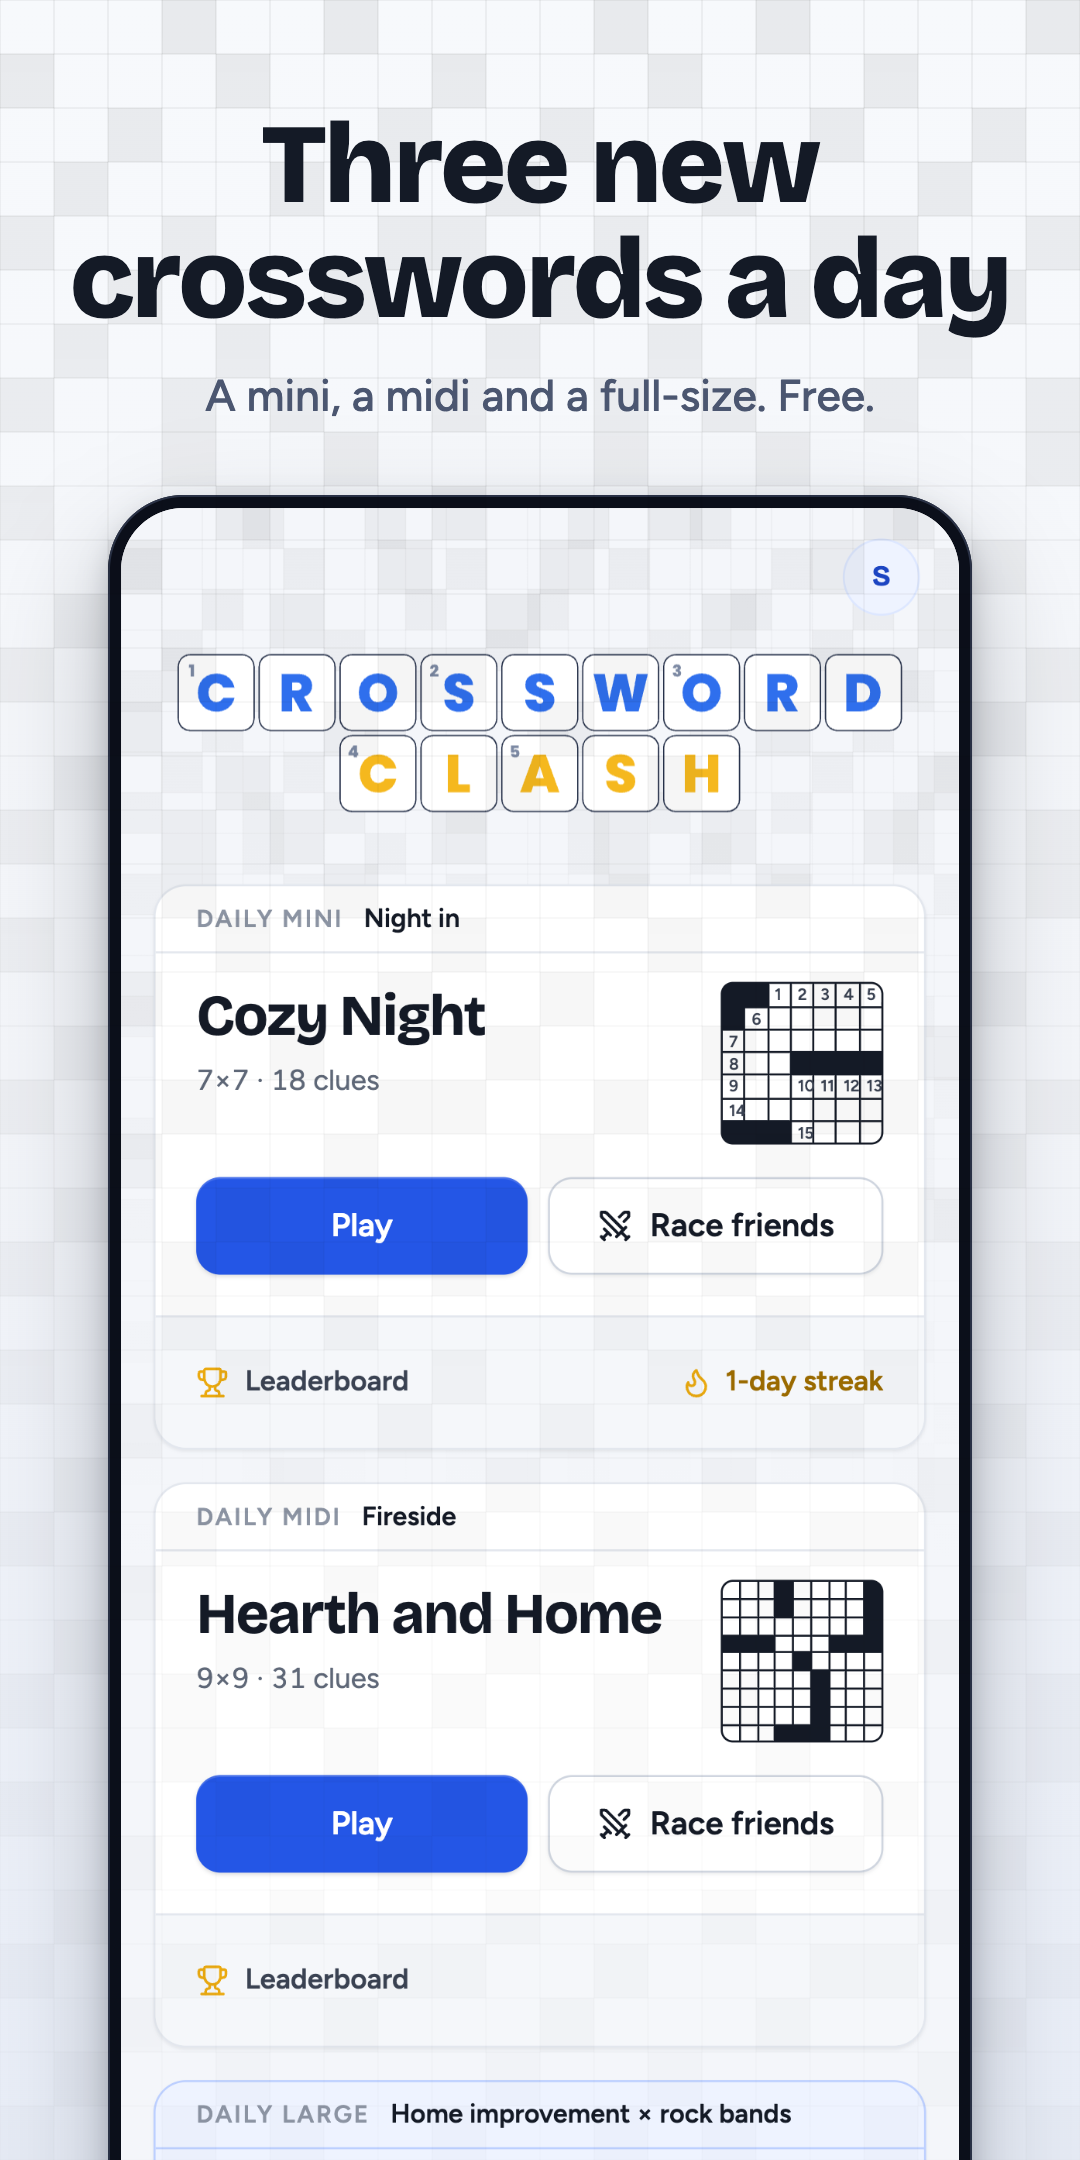
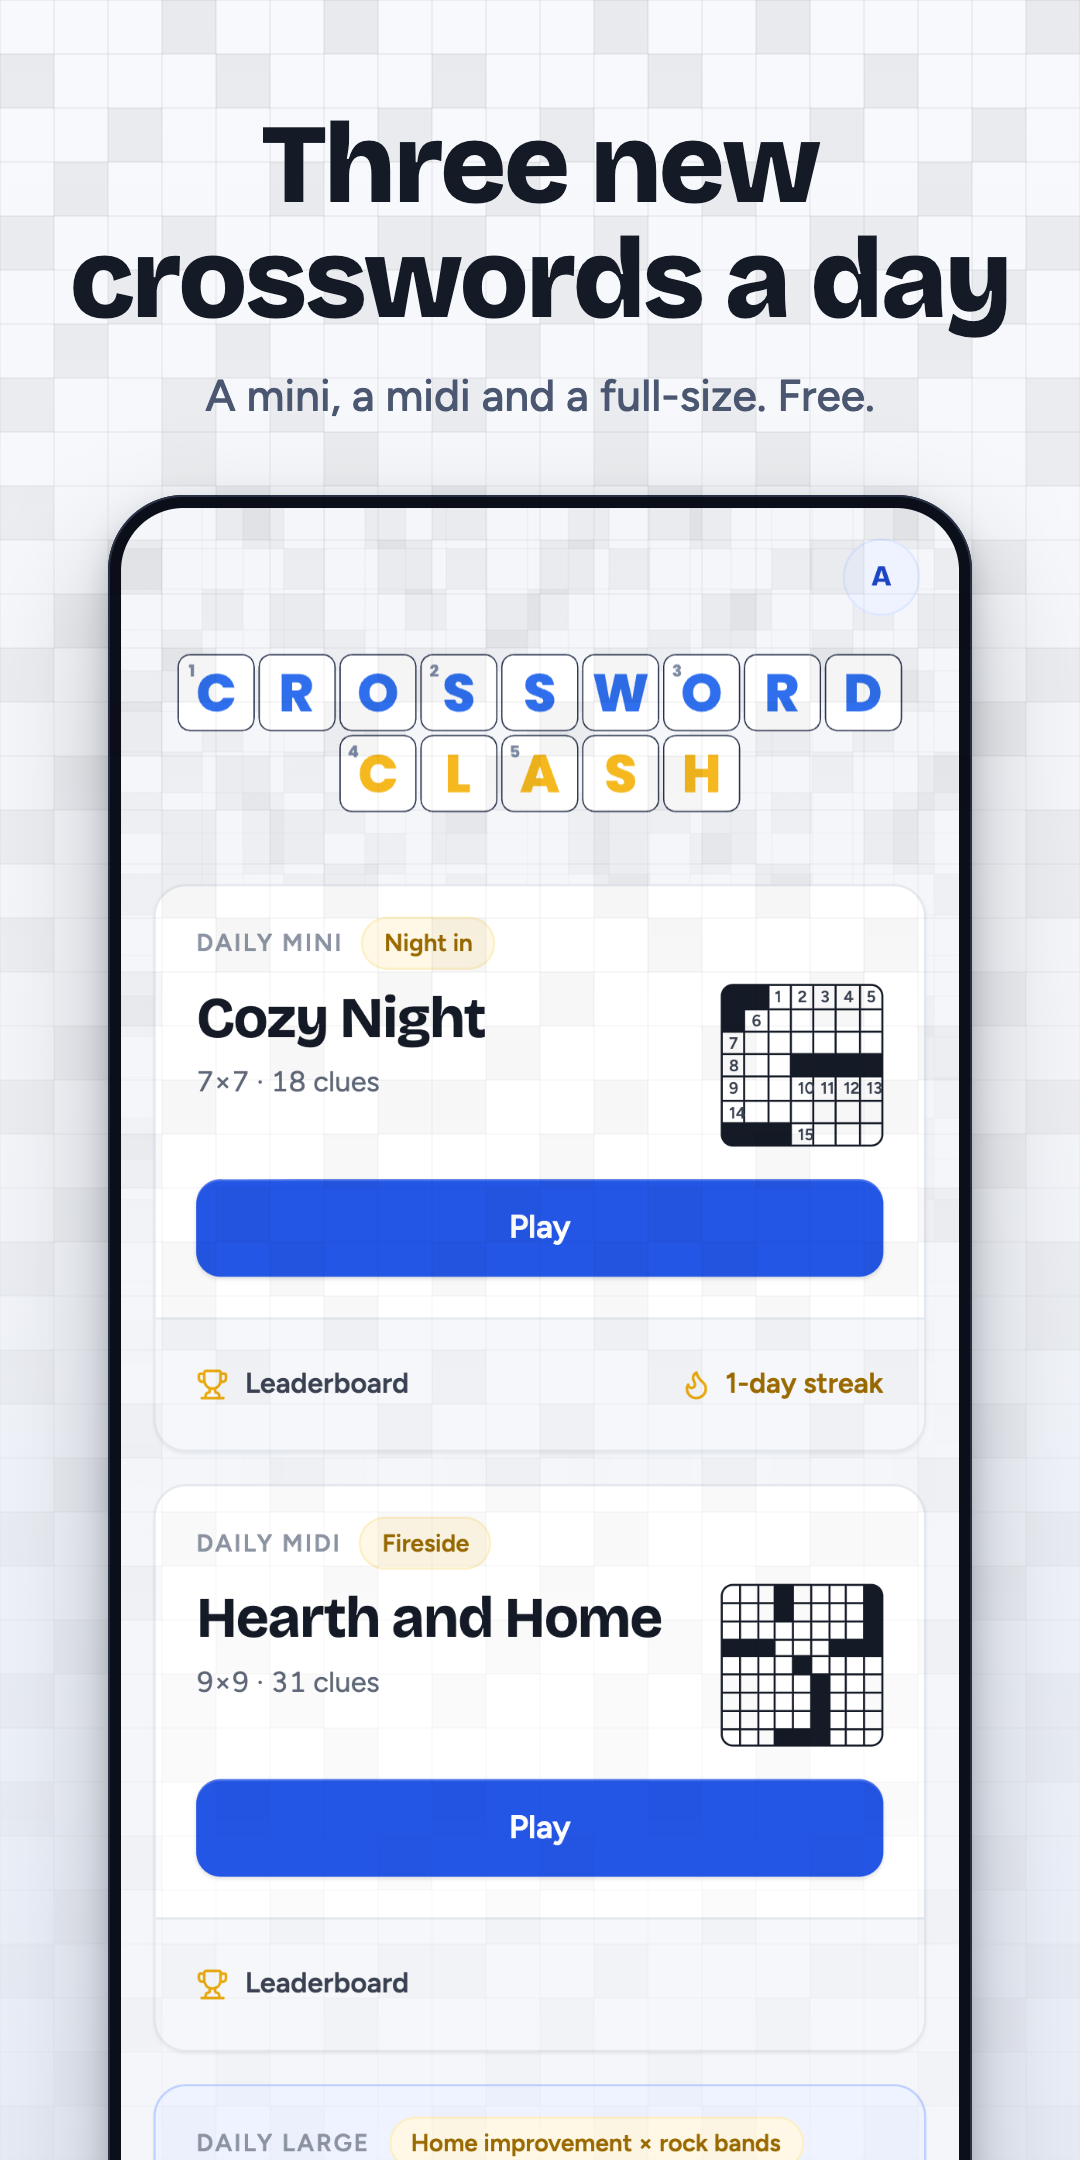
Store screenshots for the next release, and a sideways-scroll fix on the play screen (#378)
* The in-app keyboard's edge press areas no longer widen the play screen

The first and last key of each row reach 40px past the key so a thumb at the
screen edge still lands. On the full-width rows that reached 36px past the
screen, which made the fixed play layout scrollable sideways; at the iPhone
Duo's inner width a typed letter scrolled it, cutting off the title, the
grid's left edge and the Q key. The controls now clip sideways.

Claude-Session: https://claude.ai/code/session_01TCPTinhc3487xuyTLr2a7e

* Store screenshots: racing a finished solve and community puzzles

Two tiles join every set: a midi being raced against three finished solves,
and the community list. Apple's sets now hold ten tiles; Play takes eight per
device, so its sets leave out the leaderboard and the archive. All six sets
were rebuilt (three finished test rooms on production). A capture's visits
are no longer recorded as play.

Claude-Session: https://claude.ai/code/session_01TCPTinhc3487xuyTLr2a7e

---------

diff --git a/src/index.css b/src/index.css
@@ -147,7 +147,10 @@
   --native-grid-size: min(100cqw, 100cqh);
 }
 .native-game-clues { display: none; }
-.native-game-controls { flex: none; background: #dde2ea; }
+/* The edge keys' press areas reach 40px past the keys (below); clipped here, or they
+   make the fixed layout 36px wider than the screen and a focus scrolls it sideways
+   (seen at the iPhone Duo's inner width, 2026-11-20). */
+.native-game-controls { flex: none; background: #dde2ea; overflow-x: clip; }
 .native-clue-bar { min-height: 60px; background: var(--color-brand-50); border-top: 1px solid var(--color-brand-100); }
 .native-clue-bar > button { min-height: 60px; }
 .native-clue-bar > button > span.line-clamp-2 {

diff --git a/docs/app-store/README.md b/docs/app-store/README.md
@@ -69,6 +69,36 @@ reel (1080×1920, 30 fps). Its music was synthesized for it, so nothing is
 licensed. It is a marketing video, not an App Preview: it shows a TV, device
 frames and store badges, which App Previews do not allow.
 
+## Screenshots for the next version (November 20, 2026)
+
+Every set was rebuilt with `pnpm store:shots` after two tiles were added:
+`race-a-solve` ("Race anyone's finished solve": a midi being raced against
+three finished solves, their squares marked as they fill) and `community`
+("Solve what players make": the community list). The studio tile now ends
+"Then publish it." Apple's sets hold ten tiles; Play takes eight per device,
+so the Play sets leave out the leaderboard and the archive
+(`tilesFor` in `scripts/store-shots/compose.mjs`).
+
+| | Apple (10) | Play (8) |
+| --- | --- | --- |
+| Race friends on one grid | 01 | 01 |
+| Three new crosswords a day | 02 | 02 |
+| Race anyone's finished solve | 03 | 03 |
+| See who got there first | 04 | 04 |
+| Game night on the big screen | 05 | 05 |
+| Climb the daily leaderboard | 06 | |
+| Solve what players make | 07 | 06 |
+| Make your own crossword (Plus) | 08 | 07 |
+| Know your solving stats (Plus) | 09 | 08 |
+| Play every past daily (Plus) | 10 | |
+
+The community list's six puzzles are invented (`COMMUNITY` in `stage.mjs`),
+like the names on the board: on the day of the capture the real list held one
+puzzle. The solve being raced shows 13 Across in its clue bar because the
+puzzle's other early clues name a film, a band and a team. A capture's visits
+are no longer recorded as play (`play_sessions`, `narrator_sessions` and
+`solo_progress` writes are blocked in `cap.mjs`). Nothing is uploaded yet.
+
 ## Regenerating the screenshots (`pnpm store:shots`)
 
 Added November 18, 2026 with the two iPhone Duo sets (Apple requires Duo
@@ -80,7 +110,7 @@ before any submission:
 pnpm store:shots                      # all six sets, into the docs folders
 pnpm store:shots duoOuter,duoInner    # only those sets
 pnpm store:shots --out /tmp/tiles     # somewhere else, to look before replacing
-pnpm store:shots --no-room            # skip the room; tiles 01 and 04 stay as they are
+pnpm store:shots --no-room            # skip the room; its two tiles stay as they are
 ```
 
 Sets: `iphone`, `ipad`, `duoOuter`, `duoInner` (this folder) and `android`,
